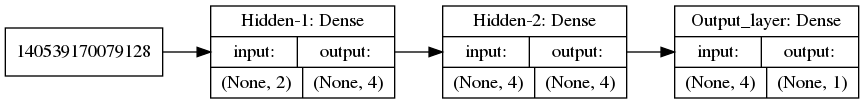
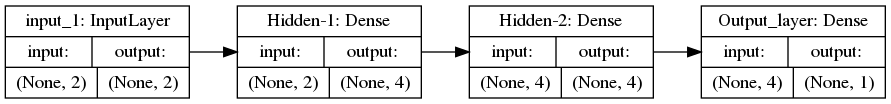
functional API for keras

Changed region(s): [[0.0, 0.0288, 1.0, 0.9519], [0.2812, 0.1154, 0.4375, 0.2596]]

diff --git a/functional_api.py b/functional_api.py
@@ -50,14 +50,18 @@ X_train, X_test, y_train , y_test = train_test_split(X, y , test_size=0.3, rando
 from keras.models import Sequential
 from keras.layers import Dense
 from keras.optimizers import Adam
+from keras.models import Model
+from keras.layers import Input
 
-model = Sequential()
+inputs = Input(shape=(2,))
 
-model.add(Dense(4, input_shape=(2,), activation='tanh', name='Hidden-1'))
+x = Dense(4, input_shape=(2,), activation='tanh', name='Hidden-1')(inputs)
 
-model.add(Dense(4, activation='tanh', name='Hidden-2'))
+x = Dense(4, input_shape=(2,), activation='tanh', name='Hidden-2')(x)
 
-model.add(Dense(1, activation='sigmoid', name='Output_layer'))
+o = Dense(1, activation='sigmoid', name='Output_layer')(x)
+
+model = Model(inputs=inputs, outputs=o)
 
 model.summary()
 
